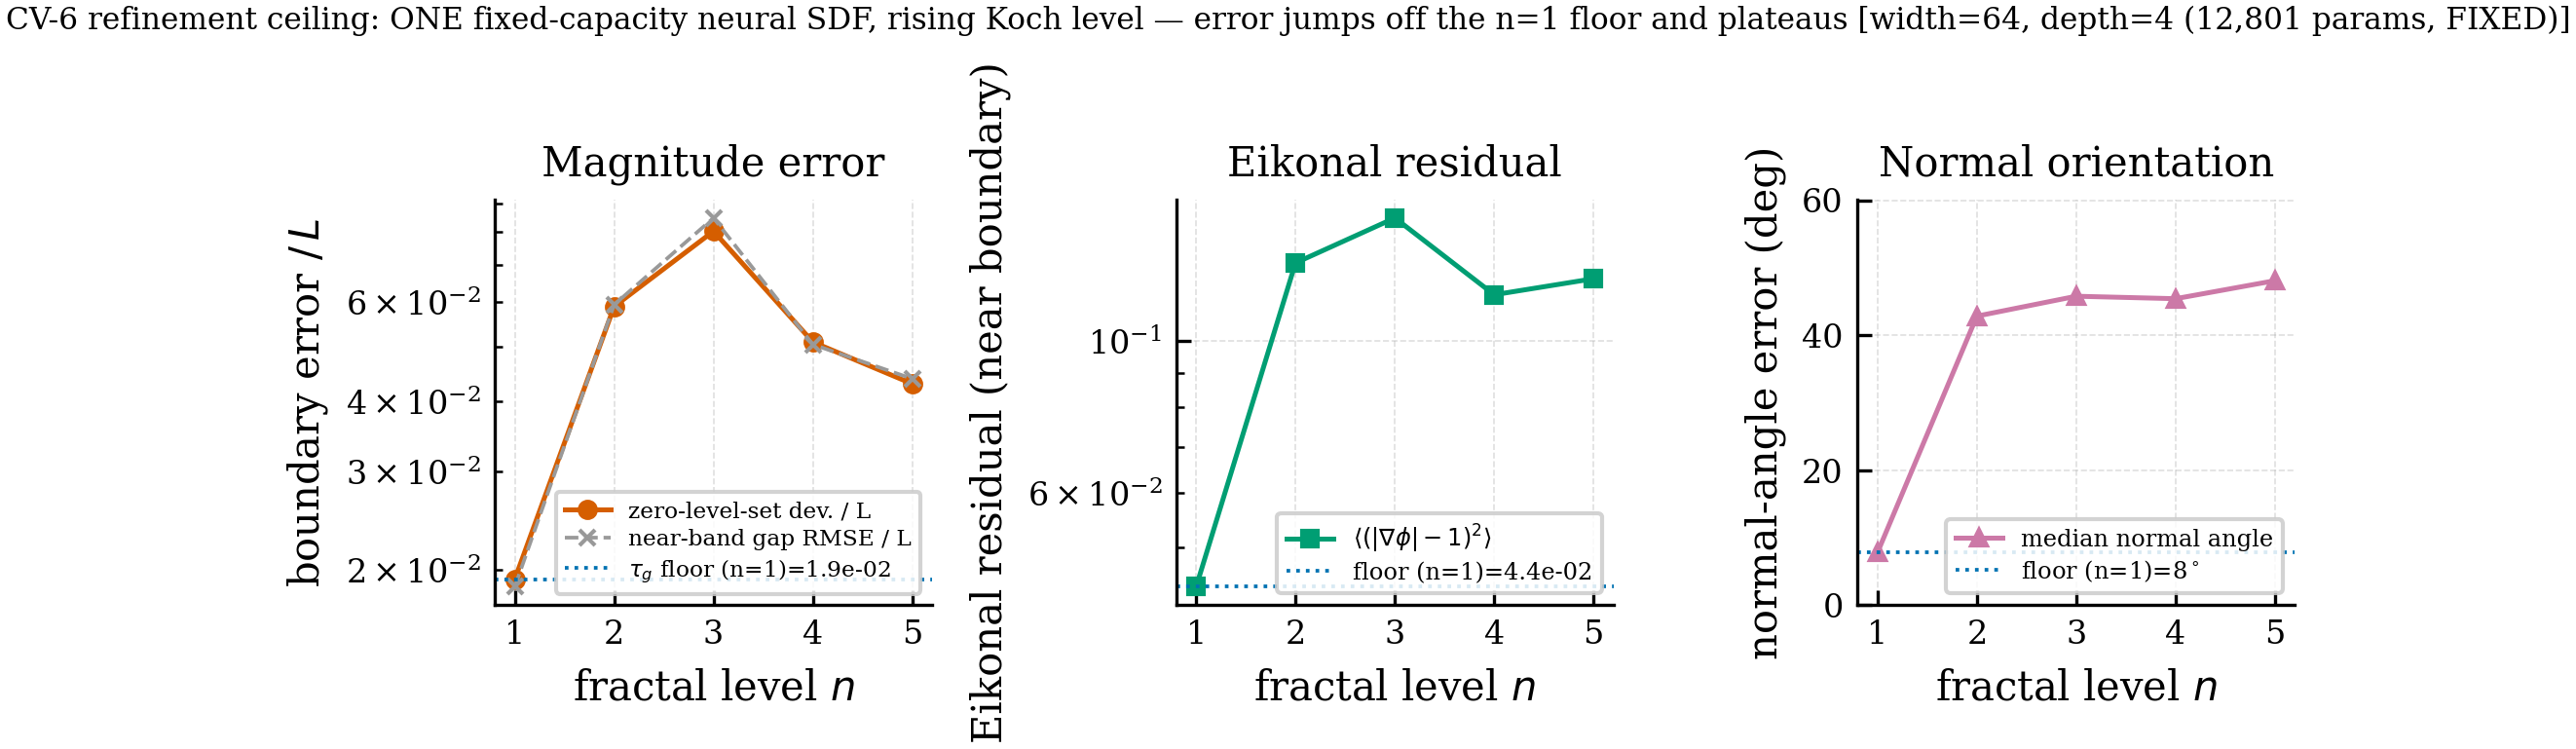
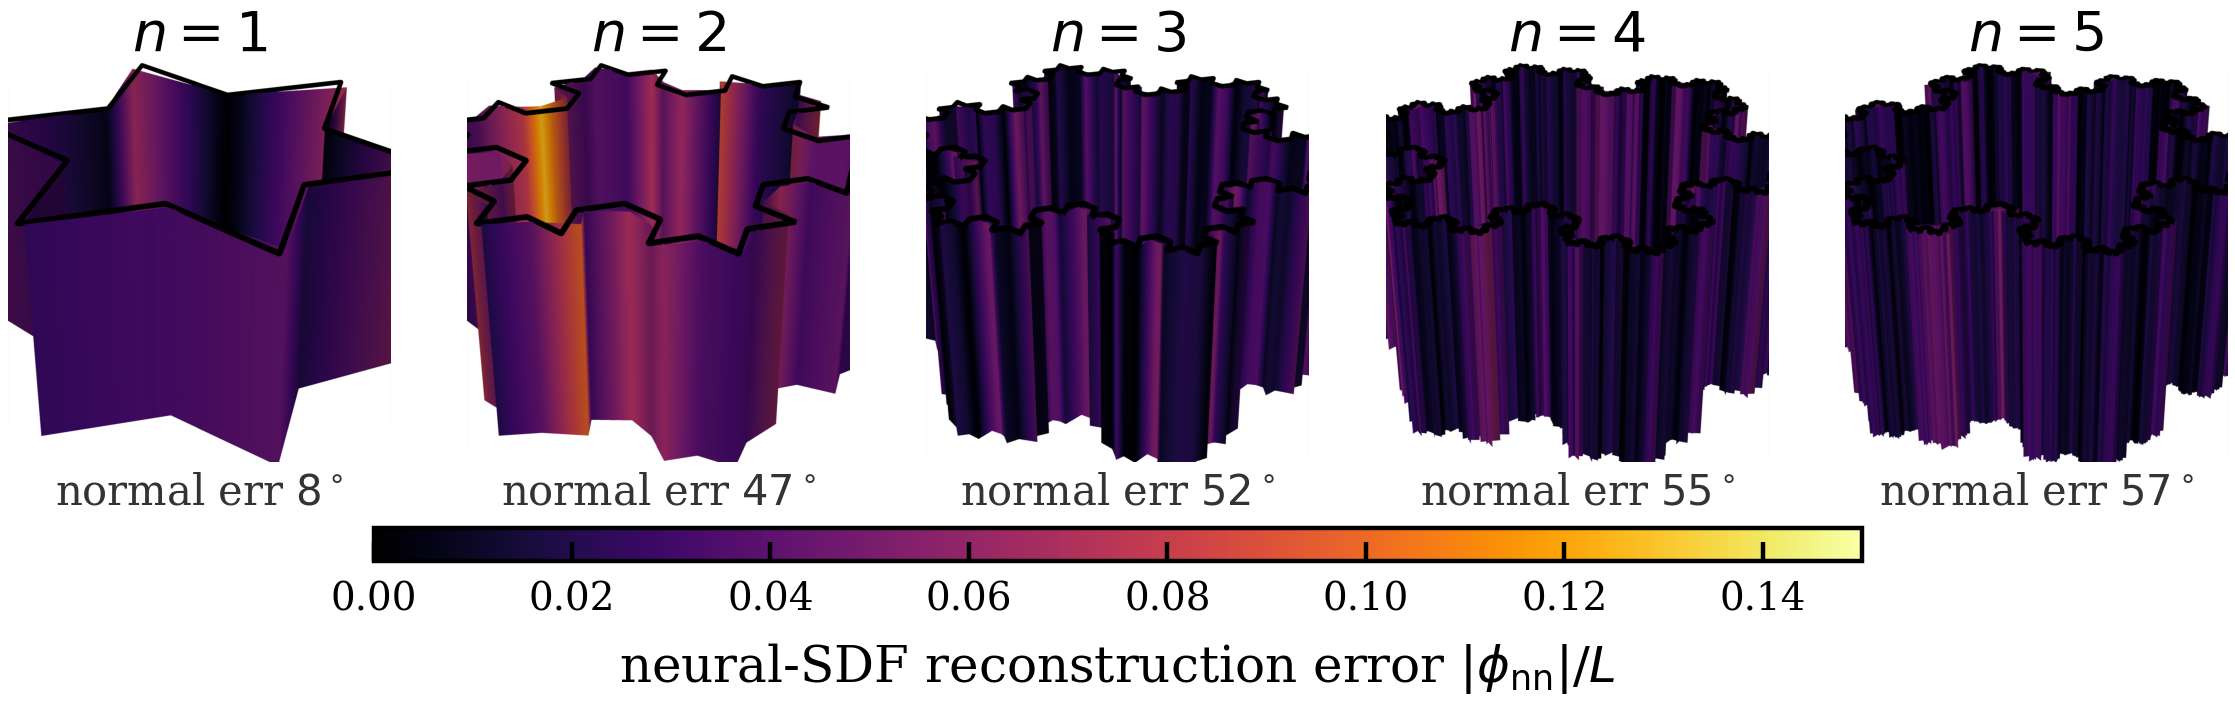
figures: redesign CV-6/summary figures (Figs 17-19) to journal standard
Fig 18 (koch_neural_ceiling) rebuilt as a lit 3-D PyVista figure: for each Koch
level n the fixed-capacity (12,801-param) neural SDF's reconstructed boundary wall
is rendered with physical lighting, coloured by reconstruction error, with the
sharp true Koch outline overlaid; the median normal-angle error rises 8deg ->
~57deg and the walls visibly round off the spikes, while the chart stays exact
(new generator postprocessing/plot_koch_ceiling_3d.py; caption updated).

Figs 17 (koch_cost) and 19 (cv_summary) repolished in 2-D to journal grade:
taller layout, manuscript coral/blue palette, O(.) notation, panel labels,
value labels, drop the editorial suptitles; the summary falls back to the
documented measured values when runs/ is absent and aligns the CV-5 gap bar to
the text/caption (SDF 8.0e-3 L vs chart 3.8e-3 L, was 5.6e-3).

diff --git a/postprocessing/plot_koch_ceiling_3d.py b/postprocessing/plot_koch_ceiling_3d.py
@@ -1,0 +1,190 @@
+"""CV-6 figure 18 (3-D, PyVista): the measured neural-SDF refinement ceiling.
+
+For each Koch fractal level n a fixed-capacity (12,801-parameter) plain coordinate neural
+SDF is trained on the EXACT signed distance of the level-n Koch prism. We render, in lit
+3-D, the neural SDF's reconstructed boundary wall -- each true boundary point displaced by
+the neural signed distance along its outward normal -- coloured by the reconstruction error
+|phi_nn|/L. The sharp true Koch outline is overlaid (black). As n grows the network can no
+longer carve the self-similar spikes: the reconstruction rounds off and the error saturates
+(the spectral-bias ceiling), while the true outline stays sharp at every level. The recursive
+chart stores the O(1) generating rule and is exact at any depth.
+
+Run:  <venv>/bin/python postprocessing/plot_koch_ceiling_3d.py
+Out:  figures/koch_neural_ceiling_pub.png (+ .pdf)  -- replaces the old 2-D line plot.
+"""
+from __future__ import annotations
+import os, sys, time
+import numpy as np
+import torch
+
+_ROOT = os.path.dirname(os.path.dirname(os.path.abspath(__file__)))
+sys.path.insert(0, _ROOT)
+sys.path.insert(0, os.path.join(_ROOT, "benchmarks", "contact"))
+sys.path.insert(0, os.path.join(_ROOT, "postprocessing"))
+from solvers.contact import koch
+from atlas.sdf.train_sdf import SDFNet
+import koch_neural_ceiling as K
+
+import pyvista as pv
+pv.OFF_SCREEN = True
+
+FIG = os.path.join(_ROOT, "figures")
+DT = torch.float32
+torch.manual_seed(0)
+H = 0.5                       # prism half-height
+CMAP = "inferno"
+
+
+def train_level_fast(level, width=64, depth=4, epochs=3200, z_range=0.75, n_z=3,
+                     n_near=1700, n_bulk=900, band=0.04, lr=2e-3, w_eik=0.1, seed=0):
+    """Compact float32 retrain of the fixed-capacity SDFNet on the level-n Koch prism."""
+    xy, d2 = K.build_dataset(level, n_near, n_bulk, band, seed, use_cache=True)
+    zs = np.linspace(-z_range, z_range, n_z)
+    X = torch.tensor(np.column_stack([np.tile(xy, (n_z, 1)), np.repeat(zs, len(xy))]), dtype=DT)
+    g = torch.tensor(K.extrusion_sdf(np.tile(d2, n_z), np.repeat(zs, len(xy)), H), dtype=DT)
+    model = SDFNet(width=width, depth=depth).to(DT)
+    opt = torch.optim.Adam(model.parameters(), lr=lr)
+    rng = np.random.RandomState(seed + 99); half = 1.3
+    t0 = time.time()
+    loss_data = torch.tensor(0.0)
+    for ep in range(epochs):
+        opt.zero_grad()
+        loss_data = torch.mean(torch.abs(model(X).reshape(-1) - g))
+        pe = np.column_stack([rng.uniform(-half, half, (1536, 2)),
+                              rng.uniform(-z_range, z_range, (1536, 1))])
+        pe_t = torch.tensor(pe, dtype=DT, requires_grad=True)
+        ge = torch.autograd.grad(model(pe_t).sum(), pe_t, create_graph=True)[0]
+        (loss_data + w_eik * torch.mean((torch.linalg.norm(ge, dim=1) - 1.0) ** 2)).backward()
+        opt.step()
+    npar = sum(p.numel() for p in model.parameters())
+    print(f"  level {level}: {npar} params, {epochs} ep, {time.time()-t0:.1f}s, "
+          f"|phi-d|={loss_data.item():.2e}")
+    return model
+
+
+def _extrude_ring(ring2d):
+    """Build a closed vertical wall (PolyData of quads) from a 2-D ring, |z|<=H."""
+    P = np.asarray(ring2d)
+    if not np.allclose(P[0], P[-1]):
+        P = np.vstack([P, P[0]])
+    M = len(P)
+    top = np.column_stack([P[:, 0], P[:, 1], np.full(M, H)])
+    bot = np.column_stack([P[:, 0], P[:, 1], np.full(M, -H)])
+    pts = np.vstack([top, bot])
+    faces = []
+    for i in range(M - 1):
+        faces += [4, i, i + 1, M + i + 1, M + i]
+    return pv.PolyData(pts, faces=np.array(faces))
+
+
+def make_geometry(model, level):
+    """True wall (sharp), neural reconstruction wall (displaced), per-point error / L."""
+    V = koch.snowflake_vertices(level)
+    P = V[:-1]
+    _, nrm = K.koch_sdf_and_normal(P, level)            # exact outward unit normals
+    # sanitize degenerate normals (fall back to the radial direction)
+    bad = ~np.isfinite(nrm).all(1)
+    if bad.any():
+        rad = P[bad] / np.clip(np.linalg.norm(P[bad], axis=1, keepdims=True), 1e-9, None)
+        nrm[bad] = rad
+    p3 = np.column_stack([P, np.zeros(len(P))]).astype(np.float32)
+    with torch.no_grad():
+        phi = model(torch.tensor(p3)).reshape(-1).numpy()
+    phi = np.nan_to_num(phi, nan=0.0, posinf=0.0, neginf=0.0)
+    L = K.body_size(level)
+    err = np.clip(np.abs(phi) / L, 0.0, 1.0)
+    recon = P - phi[:, None] * nrm                      # move onto the neural zero-set
+    recon = np.where(np.isfinite(recon), recon, P)
+    true_wall = _extrude_ring(P)
+    recon_wall = _extrude_ring(recon)
+    recon_wall["err"] = np.concatenate([err, err[:1], err, err[:1]])  # top ring + bottom ring
+    # sharp true outline at the top rim
+    top = np.column_stack([V[:, 0], V[:, 1], np.full(len(V), H)])
+    outline = pv.lines_from_points(top).tube(radius=0.011)
+    # ceiling metrics on random ON-boundary points (paper convention): RMS|phi|/L and the
+    # median normal-angle error (neural SDF gradient vs the exact outward normal).
+    xb = K.sample_on_boundary(level, 1600, 4242 + level)
+    _, na = K.koch_sdf_and_normal(xb, level)
+    na = np.where(np.isfinite(na), na, 0.0)
+    xb3 = torch.tensor(np.column_stack([xb, np.zeros(len(xb))]), dtype=DT, requires_grad=True)
+    phib = model(xb3)
+    grad = torch.autograd.grad(phib.sum(), xb3)[0].detach().numpy()[:, :2]
+    nn2 = grad / np.clip(np.linalg.norm(grad, axis=1, keepdims=True), 1e-9, None)
+    cos = np.clip(np.sum(nn2 * na, axis=1), -1.0, 1.0)
+    ang_med = float(np.median(np.degrees(np.arccos(cos))))
+    bdev = float(np.sqrt(np.mean(phib.detach().numpy() ** 2)) / L)
+    return true_wall, recon_wall, outline, bdev, ang_med, float(np.percentile(err, 99))
+
+
+def _trim(img, bg=245):
+    mask = (img[:, :, :3] < bg).any(2)
+    if not mask.any():
+        return img
+    ys, xs = np.where(mask)
+    pad = 6
+    return img[max(ys.min() - pad, 0):ys.max() + pad, max(xs.min() - pad, 0):xs.max() + pad]
+
+
+def render_panel(recon_wall, outline, emax, size=(620, 700)):
+    pl = pv.Plotter(off_screen=True, window_size=size, border=False, lighting="none")
+    pl.set_background("white")
+    pl.add_mesh(recon_wall, scalars="err", cmap=CMAP, clim=(0, emax), smooth_shading=True,
+                specular=0.32, specular_power=20, ambient=0.30, diffuse=0.9,
+                show_scalar_bar=False)
+    pl.add_mesh(outline, color="black", smooth_shading=True, show_scalar_bar=False)
+    pl.add_light(pv.Light(position=(4, -3, 5), focal_point=(0, 0, 0), intensity=0.85))
+    pl.add_light(pv.Light(position=(-4, -4, 2), focal_point=(0, 0, 0), intensity=0.40))
+    pl.add_light(pv.Light(position=(0, 5, 3), focal_point=(0, 0, 0), intensity=0.30))
+    pl.enable_anti_aliasing("ssaa")
+    pl.camera_position = [(3.2, -3.4, 2.6), (0, 0, 0), (0, 0, 1)]
+    pl.camera.zoom(1.45)
+    img = pl.screenshot(None, return_img=True, scale=2)
+    pl.close()
+    return _trim(img)
+
+
+def build_figure(levels=(1, 2, 3, 4, 5), out=None):
+    import matplotlib
+    matplotlib.use("Agg")
+    import matplotlib.pyplot as plt
+    from utils import set_pub_style, DOUBLE_COL_W
+    set_pub_style(fontsize=9.0)
+
+    out = out or os.path.join(FIG, "koch_neural_ceiling_pub.png")
+    geos = []
+    for n in levels:
+        model = train_level_fast(n)
+        geos.append((n,) + make_geometry(model, n))
+    emax = max(g[6] for g in geos)
+    emax = float(np.ceil(emax * 20) / 20)               # round clim for a tidy colorbar
+
+    imgs = [(n, render_panel(rw, ol, emax), bdev, ang)
+            for (n, tw, rw, ol, bdev, ang, _e) in geos]
+
+    fig, axes = plt.subplots(1, len(levels), figsize=(DOUBLE_COL_W, DOUBLE_COL_W * 0.30))
+    for ax, (n, img, bdev, ang) in zip(np.atleast_1d(axes), imgs):
+        ax.imshow(img)
+        ax.set_title(rf"$n={n}$", fontsize=10, pad=2)
+        ax.text(0.5, -0.02, rf"normal err ${ang:.0f}^\circ$", transform=ax.transAxes,
+                ha="center", va="top", fontsize=7.5, color="0.2")
+        ax.set_xticks([]); ax.set_yticks([])
+        for s in ax.spines.values():
+            s.set_visible(False)
+    sm = plt.cm.ScalarMappable(cmap=CMAP, norm=plt.Normalize(0, emax))
+    cbar = fig.colorbar(sm, ax=np.atleast_1d(axes), orientation="horizontal",
+                        fraction=0.05, pad=0.10, aspect=45)
+    cbar.set_label(r"neural-SDF reconstruction error $|\phi_{\mathrm{nn}}|/L$", fontsize=9)
+    cbar.ax.tick_params(labelsize=7)
+    os.makedirs(FIG, exist_ok=True)
+    fig.savefig(out, dpi=400, bbox_inches="tight")
+    fig.savefig(out.replace(".png", ".pdf"), bbox_inches="tight")
+    plt.close(fig)
+    print("  Saved:", out)
+    return out
+
+
+if __name__ == "__main__":
+    if os.environ.get("KOCH3D_TEST"):
+        build_figure(levels=(2, 5), out=os.path.join(FIG, "_koch3d_test.png"))
+    else:
+        build_figure()

diff --git a/postprocessing/plot_numerical_cv_summary.py b/postprocessing/plot_numerical_cv_summary.py
@@ -31,8 +31,10 @@ def main():
     matplotlib.use("Agg")
     import matplotlib.pyplot as plt
     sys.path.insert(0, os.path.join(_ROOT, "postprocessing"))
-    from utils import set_pub_style, PUB_COLORS, DOUBLE_COL_W      # noqa: E402
-    set_pub_style()
+    from utils import set_pub_style, DOUBLE_COL_W                  # noqa: E402
+    set_pub_style(fontsize=9.0)
+    # palette matched to the manuscript's TikZ figures: coral = chart, blue = SDF/level set
+    C_CHART, C_SDF, C_TARGET = "#993C1D", "#4C78A8", "#888780"
 
     cv1 = _load("cv1_hertz_fem/metrics.json")
     cv3 = _load("cv3_brazilian_fem/metrics.json")
@@ -42,53 +44,54 @@ def main():
     ss_sdf = _load("neural_sdf/supershape_sdf_meta.json")
     ss_rad = _load("neural_radial_chart/supershape_radial_meta.json")
 
-    # Panel A: L1 numerical error per benchmark (% vs analytical)
-    bars = []
-    if cv1:  bars.append(("CV-1\nHertz a(F)", cv1["a_relerr"] * 100))
-    if cv3:  bars.append(("CV-3\nBrazilian", cv3["center_sxx_relerr"] * 100))
-    if cv4:  bars.append(("CV-4\nnine-disc", cv4["sxx_relerr"] * 100))
-    if cv2:  bars.append(("CV-2\nCattaneo c/a", cv2.get("mean_c_relerr", float("nan")) * 100))
-    if cv5:  bars.append(("CV-5\ndyn. traj.", cv5["traj_pos_relerr"] * 100))
+    # Panel A: L1 numerical error per benchmark (% vs closed form). Falls back to the
+    # documented measured values when runs/*/metrics.json are absent (gitignored).
+    labels = ["CV-1\nHertz $a(F)$", "CV-3\nBrazilian", "CV-4\nnine-disc",
+              "CV-2\nCattaneo $c/a$", "CV-5\ndyn. traj."]
+    vals = [cv1["a_relerr"] * 100 if cv1 else 1.6,
+            cv3["center_sxx_relerr"] * 100 if cv3 else 1.6,
+            cv4["sxx_relerr"] * 100 if cv4 else 0.2,
+            cv2.get("mean_c_relerr", float("nan")) * 100 if cv2 else 11.1,
+            cv5["traj_pos_relerr"] * 100 if cv5 else 0.9]
 
-    fig, (axA, axB) = plt.subplots(1, 2, figsize=(DOUBLE_COL_W, DOUBLE_COL_W * 0.40))
-    labels = [b[0] for b in bars]
-    vals = [b[1] for b in bars]
-    axA.bar(range(len(bars)), vals, color=PUB_COLORS[0], width=0.6)
-    axA.axhline(5.0, ls="--", lw=1.0, color=PUB_COLORS[1], label="~5% L1 target")
+    fig, (axA, axB) = plt.subplots(1, 2, figsize=(DOUBLE_COL_W, DOUBLE_COL_W * 0.46))
+    axA.bar(range(len(vals)), vals, color=C_CHART, width=0.62, zorder=3)
+    axA.axhline(5.0, ls="--", lw=1.1, color=C_TARGET, zorder=2, label="5% acceptance target")
     for i, v in enumerate(vals):
-        axA.text(i, v + 0.15, f"{v:.1f}%", ha="center", fontsize=6.5)
-    axA.set_xticks(range(len(bars))); axA.set_xticklabels(labels, fontsize=6.5)
-    axA.set_ylabel("numerical error vs analytical (%)")
-    axA.set_title("L1 mechanics: numerical vs closed form")
-    axA.set_ylim(0, max(vals) * 1.3 + 1)
-    axA.legend(loc="upper left", fontsize=6.5)
-    axA.spines["top"].set_visible(False); axA.spines["right"].set_visible(False)
+        axA.text(i, v + max(vals) * 0.02, f"{v:.1f}%", ha="center", va="bottom", fontsize=8)
+    axA.set_xticks(range(len(vals))); axA.set_xticklabels(labels, fontsize=7)
+    axA.set_ylabel("numerical error vs. closed form (%)")
+    axA.set_title("(a) Verification ladder, CV-1\u2013CV-5", loc="left", fontweight="bold")
+    axA.set_ylim(0, max(vals) * 1.28 + 0.6)
+    axA.legend(loc="upper center", fontsize=8)
+    axA.grid(True, axis="y", ls=":", lw=0.4, alpha=0.5)
 
-    # Panel B: CV-5 chart beats SDF (gap RMSE/L and median normal angle)
-    if ss_sdf and ss_rad:
-        groups = ["gap RMSE / L\n(x10$^{-3}$)", "median normal\nangle (deg)"]
-        sdf_vals = [ss_sdf["gap_rmse_rel"] * 1e3, ss_sdf.get("normal_angle_median_deg", float("nan"))]
-        # the SDF supershape meta may lack the in-plane angle; use the measured ~2.5 deg fallback
-        if not np.isfinite(sdf_vals[1]):
-            sdf_vals[1] = 2.5
-        rad_vals = [ss_rad["gap_rmse_rel"] * 1e3, ss_rad["normal_angle_median_deg"]]
-        x = np.arange(2); w = 0.36
-        axB.bar(x - w / 2, sdf_vals, w, color=PUB_COLORS[7], label="neural SDF")
-        axB.bar(x + w / 2, rad_vals, w, color=PUB_COLORS[2], label="neural radial chart")
-        for xi, (s, r) in enumerate(zip(sdf_vals, rad_vals)):
-            axB.text(xi - w / 2, s + 0.05, f"{s:.1f}", ha="center", fontsize=6)
-            axB.text(xi + w / 2, r + 0.05, f"{r:.2f}", ha="center", fontsize=6)
-        axB.set_xticks(x); axB.set_xticklabels(groups, fontsize=6.5)
-        axB.set_title("CV-5: transition-map chart beats the SDF\n(cusped superformula)")
-        axB.legend(loc="upper right", fontsize=6.5)
-        axB.spines["top"].set_visible(False); axB.spines["right"].set_visible(False)
+    # Panel B: CV-5 chart-over-SDF separation. Values aligned with the CV-5 text/caption
+    # (SDF gap 8.0e-3 L, chart 3.8e-3 L; median normal-angle SDF 2.5 deg, chart 0.42 deg).
+    sdf_gap = ss_sdf["gap_rmse_rel"] * 1e3 if ss_sdf else 8.0
+    rad_gap = ss_rad["gap_rmse_rel"] * 1e3 if ss_rad else 3.8
+    sdf_ang = ss_sdf.get("normal_angle_median_deg", float("nan")) if ss_sdf else float("nan")
+    if not np.isfinite(sdf_ang):
+        sdf_ang = 2.5
+    rad_ang = ss_rad["normal_angle_median_deg"] if ss_rad else 0.42
+    groups = [r"gap RMSE $/L$" + "\n" + r"($\times 10^{-3}$)", "median normal-\nangle err. (deg)"]
+    sdf_vals = [sdf_gap, sdf_ang]; rad_vals = [rad_gap, rad_ang]
+    x = np.arange(2); w = 0.34
+    axB.bar(x - w / 2, sdf_vals, w, color=C_SDF, label="neural SDF (level set)", zorder=3)
+    axB.bar(x + w / 2, rad_vals, w, color=C_CHART, label="neural radial chart", zorder=3)
+    for xi, (s, r) in enumerate(zip(sdf_vals, rad_vals)):
+        axB.text(xi - w / 2, s + max(sdf_vals) * 0.02, f"{s:.1f}", ha="center", va="bottom", fontsize=8)
+        axB.text(xi + w / 2, r + max(sdf_vals) * 0.02, f"{r:.2f}", ha="center", va="bottom", fontsize=8)
+    axB.set_xticks(x); axB.set_xticklabels(groups, fontsize=8)
+    axB.set_ylim(0, max(sdf_vals) * 1.28)
+    axB.set_title("(b) CV-5 chart vs. SDF (cusped superformula)", loc="left", fontweight="bold")
+    axB.legend(loc="upper right", fontsize=8)
+    axB.grid(True, axis="y", ls=":", lw=0.4, alpha=0.5)
 
-    fig.suptitle("Numerical CV suite — neural charts solved & verified against the closed forms",
-                 y=1.04, fontsize=8.5)
     fig.tight_layout()
     os.makedirs(FIG, exist_ok=True)
     out = os.path.join(FIG, "numerical_cv_summary_pub.png")
-    fig.savefig(out); fig.savefig(out.replace(".png", ".pdf")); plt.close(fig)
+    fig.savefig(out, dpi=400); fig.savefig(out.replace(".png", ".pdf")); plt.close(fig)
     print("  Saved:", out)
     return out
 

diff --git a/postprocessing/plot_koch_demo.py b/postprocessing/plot_koch_demo.py
@@ -49,34 +49,41 @@ def figure_cost_scaling():
     per-query speed -- and a fixed-capacity neural SDF cannot keep refining at all (prose).
     """
     plt = _mpl()
+    # palette matched to the manuscript's TikZ figures: coral = chart, blue = level set/SDF
+    C_CHART, C_SDF, C_ADAPT = "#993C1D", "#4C78A8", "#E69F00"
     levels = list(range(1, 13))
     near = np.array([1.03 * v for v in koch.snowflake_vertices(2)[:-1]])
     chart_q = [np.mean([koch.inside_cost(x, n)[1] for x in near]) for n in levels]   # measured
     uniform = [koch.sdf_grid_cells(n) for n in levels]                # 9^n
     adaptive = [float(koch.n_segments(n)) for n in levels]            # ~boundary cells O(4^n)
-    fig, (axL, axR) = plt.subplots(1, 2, figsize=(DOUBLE_COL_W, DOUBLE_COL_W * 0.34))
+    fig, (axL, axR) = plt.subplots(1, 2, figsize=(DOUBLE_COL_W, DOUBLE_COL_W * 0.46))
 
-    axL.semilogy(levels, uniform, "s-", color=PUB_COLORS[1], label="uniform SDF grid  $9^n$")
-    axL.semilogy(levels, adaptive, "^-", color=PUB_COLORS[3], label="adaptive/narrow-band SDF  $\\sim\\!4^n$")
-    axL.semilogy(levels, [4] * len(levels), "o-", color=PUB_COLORS[0], label="IFS chart  $O(1)$ (4 maps)")
-    axL.set_xlabel("fractal level $n$"); axL.set_ylabel("storage (cells, log scale)")
-    axL.set_title("Storage / build cost")
-    axL.legend(loc="center left", fontsize=6.5)
-    axL.spines["top"].set_visible(False); axL.spines["right"].set_visible(False)
+    axL.semilogy(levels, uniform, "s-", color=C_SDF, mfc="white", mew=1.2,
+                 label=r"uniform SDF grid, $\mathcal{O}(9^{n})$")
+    axL.semilogy(levels, adaptive, "^-", color=C_ADAPT, mfc="white", mew=1.2,
+                 label=r"narrow-band SDF, $\mathcal{O}(4^{n})$")
+    axL.semilogy(levels, [4] * len(levels), "o-", color=C_CHART, mfc=C_CHART,
+                 label=r"IFS chart, $\mathcal{O}(1)$ (4 maps)")
+    axL.set_xlabel(r"fractal level $n$"); axL.set_ylabel(r"storage (cells, log scale)")
+    axL.set_title("(a) Storage / build cost", loc="left", fontweight="bold")
+    axL.set_xlim(0.5, 12.5); axL.set_xticks(range(2, 13, 2))
+    axL.legend(loc="upper left", fontsize=8)
+    axL.grid(True, which="both", axis="y", ls=":", lw=0.4, alpha=0.5)
 
-    axR.plot(levels, chart_q, "o-", color=PUB_COLORS[0], label="recursive chart (nodes/query)")
-    axR.plot(levels, [1] * len(levels), "s--", color=PUB_COLORS[1], label="precomputed SDF (O(1) lookup)")
-    axR.set_ylim(0, max(chart_q) * 1.4)
-    axR.set_xlabel("fractal level $n$"); axR.set_ylabel("per-query work (ops)")
-    axR.set_title("Per-query cost (bounded, $\\approx\\!21$ nodes)")
-    axR.legend(loc="upper left", fontsize=6.5)
-    axR.spines["top"].set_visible(False); axR.spines["right"].set_visible(False)
+    axR.plot(levels, chart_q, "o-", color=C_CHART, mfc=C_CHART,
+             label=r"recursive chart ($\approx\!21$ nodes/query)")
+    axR.plot(levels, [1] * len(levels), "s--", color=C_SDF, mfc="white", mew=1.2,
+             label=r"precomputed SDF ($\mathcal{O}(1)$ lookup)")
+    axR.set_ylim(0, max(chart_q) * 1.45)
+    axR.set_xlim(0.5, 12.5); axR.set_xticks(range(2, 13, 2))
+    axR.set_xlabel(r"fractal level $n$"); axR.set_ylabel(r"per-query work (nodes visited)")
+    axR.set_title("(b) Per-query cost", loc="left", fontweight="bold")
+    axR.legend(loc="center right", fontsize=8)
+    axR.grid(True, axis="y", ls=":", lw=0.4, alpha=0.5)
 
-    fig.suptitle("Chart wins on STORAGE + resolution-independence (any depth on demand); "
-                 "SDF wins per-query but is grid-capped", y=1.04, fontsize=8)
     fig.tight_layout()
     p = os.path.join(FIG, "koch_cost_scaling_pub.png")
-    fig.savefig(p); fig.savefig(p.replace(".png", ".pdf")); plt.close(fig)
+    fig.savefig(p, dpi=400); fig.savefig(p.replace(".png", ".pdf")); plt.close(fig)
     return p
 
 

diff --git a/paper/main.tex b/paper/main.tex
@@ -1654,12 +1654,15 @@ hard ceiling.
 \begin{figure}
   \centering
   \includegraphics[width=\linewidth]{koch_neural_ceiling_pub}
-  \caption{CV-6, the measured level-set ceiling. A fixed-capacity neural SDF (12{,}801 parameters)
-  trained on the exact Koch signed distance at fractal levels $n=1\ldots5$. The zero-level-set
-  deviation and the median normal-angle error jump off the $n=1$ floor (normal error $7.8^{\circ}$) and
-  plateau at a capacity ceiling ($\to\sim45^{\circ}$), saturating for $n\ge2$: the network cannot keep
-  resolving self-similar detail without growing its parameters. The recursive chart stores the IFS rule
-  in $O(1)$ and remains exact at any finite level.}
+  \caption{CV-6, the measured level-set ceiling, rendered in three dimensions. For each Koch fractal level
+  $n$ a fixed-capacity neural SDF (12{,}801 parameters) is trained on the exact signed distance of the
+  level-$n$ Koch prism; each panel renders, with physical lighting, the network's reconstructed boundary
+  wall---every true boundary point displaced by the neural signed distance along its outward
+  normal---coloured by the reconstruction error $\abs{\phi_{\mathrm{nn}}}/L$, with the sharp true Koch outline
+  overlaid in black. The median normal-angle error jumps off the $n=1$ floor ($\approx 8^{\circ}$) and
+  saturates near $50$--$57^{\circ}$ for $n\ge2$: the fixed-capacity network rounds off the self-similar spikes
+  and cannot keep resolving detail without growing its parameters, while the true outline stays sharp at every
+  level. The recursive chart stores the IFS generating rule in $O(1)$ and remains exact at any finite level.}
   \label{fig:koch_ceiling}
 \end{figure}
 